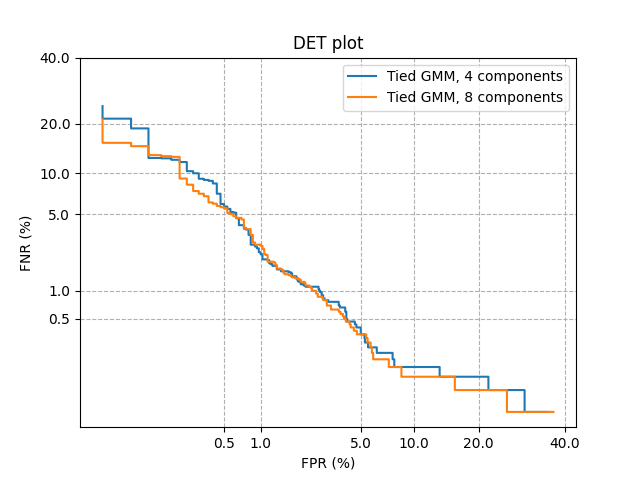
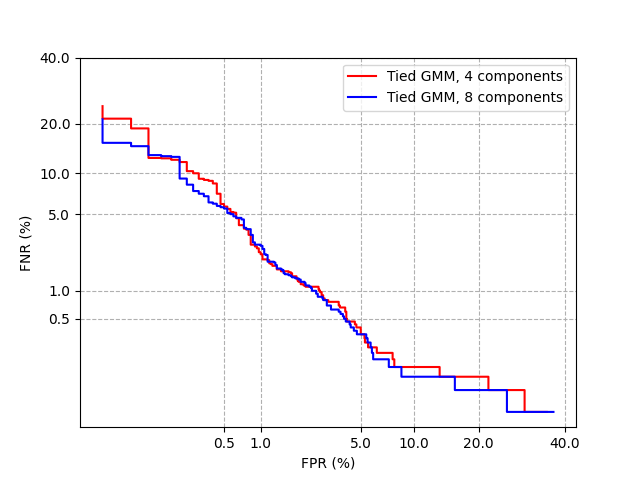
Minor fixes

diff --git a/mains/calibration.py b/mains/calibration.py
@@ -190,6 +190,8 @@ def recalibration_func_fit(XTR, LTR, pi_1, l: float = 0):
         th = np.log(pi_1/(1 - pi_1))
         # recalibrate scores
         new_scores = u.vcol(alpha)*s + beta_prime - th
+        if new_scores.shape[0] == 1:
+            new_scores = new_scores.flatten()
         return new_scores
 
     return f_s
@@ -197,16 +199,16 @@ def recalibration_func_fit(XTR, LTR, pi_1, l: float = 0):
 
 if __name__ == '__main__':
     # type of calibration: ["simple", "recalibration_func", "fusion"]
-    _calibration_type = "fusion"
+    _calibration_type = "recalibration_func"
     # scores to calibrate
     _scores = u.vrow(np.load("../scores/GMM_8_tied.npy"))
     # actual labels of the dataset
     _labels = np.load("../scores/5fold_labels.npy")
-    _pi_tilde = [0.1, 0.5, 0.9]  # array of pi_tilde to test
+    _pi_tilde = [0.5]  # array of pi_tilde to test
     _K = None  # None, or the number of folds
 
     # recalibration function/fusion settings
-    _pi_1 = [0.1, 0.5, 0.9]  # array of priors (for the logistic regression of the recalibration function f(s))
+    _pi_1 = [0.5]  # array of priors (for the logistic regression of the recalibration function f(s))
     _lambda = [0]  # lambda for the logistic regression
     # _scores_fusion - set None to compute normal recalibration function on _scores, else fuse _scores with these scores
     _scores_fusion = u.vrow(np.load("../scores/LR_pca8.npy"))
@@ -214,4 +216,6 @@ if __name__ == '__main__':
     if _calibration_type == "fusion":
         _scores = np.vstack([_scores, _scores_fusion])
     for pi in _pi_tilde:
-        calibrate(_calibration_type, _scores, _labels, pi, _K)
+        f_s = calibrate(_calibration_type, _scores, _labels, pi, _K)
+    # S2 = f_s[0](_scores)
+    # optimal_decisions.bayes_error_plot([(_scores.flatten(), "Tied GMM (8)", 'r'), (S2, "Tied GMM (8), calibrated", 'b')], _labels)

diff --git a/optimal_decisions.py b/optimal_decisions.py
@@ -164,12 +164,12 @@ def roc_plot(S, trueL, file_name=None):
 def det_plot(models, trueL, file_name=None):
     """
     Plots the DET curve for many models.
-    :param models is a list of pairs (S, label), where S is the binary log-likelihood ratio, while
-    label is the name of the model (eg, 'GMM')
+    :param models is a list of pairs (S, label, color), where S is the binary log-likelihood ratio,
+    label is the name of the model (eg, 'GMM') and color is the color we want to use for that model (eg, 'r')
     :param trueL stores the actual labels of the dataset
     :param file_name is the name of the file where we want to save the image, if any
     """
-    for S, label in models:
+    for S, label, color in models:
         # sort the values
         sortS = np.sort(S)
         # extend array to include -inf and +inf
@@ -195,9 +195,9 @@ def det_plot(models, trueL, file_name=None):
         # FNR[FNR == 1] = 0.9999999
 
         # plot the curve
-        plt.plot(norm.ppf(FPR), norm.ppf(FNR), label=label)
+        plt.plot(norm.ppf(FPR), norm.ppf(FNR), label=label, color=color)
 
-    plt.title('DET plot')
+    # plt.title('DET plot')
     plt.xlabel('FPR (%)')
     plt.ylabel('FNR (%)')
     ticks = np.array([0.5, 1, 5, 10, 20, 40])

diff --git a/mains/plots.py b/mains/plots.py
@@ -448,9 +448,9 @@ if __name__ == '__main__':
     trueL = np.load("scores/5fold_labels.npy")
     S1 = np.load("scores/GMM_4_tied.npy")
     S2 = np.load("scores/GMM_8_tied.npy")
-    # optimal_decisions.det_plot([(S1, "Tied GMM, 4 components"), (S2, "Tied GMM, 8 components")], trueL)
+    optimal_decisions.det_plot([(S1, "Tied GMM, 4 components", 'r'), (S2, "Tied GMM, 8 components", 'b')], trueL)
     # optimal_decisions.roc_plot(S1, LTE)
-    optimal_decisions.bayes_error_plot([(S1, "Tied GMM, 4 components", 'r'), (S2, "Tied GMM, 8 components", 'b')], trueL)
+    # optimal_decisions.bayes_error_plot([(S1, "Tied GMM, 4 components", 'r'), (S2, "Tied GMM, 8 components", 'b')], trueL)
     # quad_lr_plot()
     # linear_svm_plot()
     # quadratic_svm_plot()
